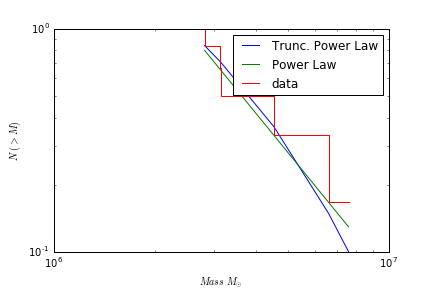
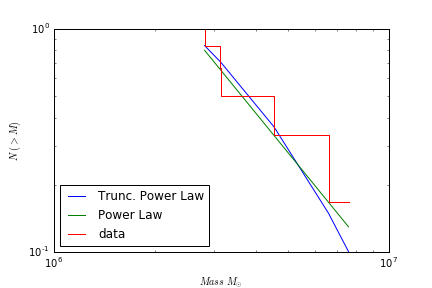
mass distributions all

diff --git a/powerlawbins.py b/powerlawbins.py
@@ -61,7 +61,7 @@ fit_1_subset.power_law.plot_ccdf(label='Power Law')
 fit_1_subset.plot_ccdf(drawstyle='steps', label='data')
 plt.xlabel(r'$Mass\ M_{\odot}$')
 plt.ylabel(r'$N\ (>M)$')
-plt.legend()
+plt.legend(loc=3)
 plt.savefig('powerlawbin1.png')
 
 #plot bin 2
@@ -141,7 +141,7 @@ fit_4_subset.power_law.plot_ccdf(label='Power Law')
 fit_4_subset.plot_ccdf(drawstyle='steps', label='data')
 plt.xlabel(r'$Mass\ M_{\odot}$')
 plt.ylabel(r'$N\ (>M)$')
-plt.legend()
+plt.legend(loc=3)
 plt.savefig('powerlawbin4.png')
 
 #plot bin 5
@@ -168,9 +168,8 @@ fit_5_subset.power_law.plot_ccdf(label='Power Law')
 fit_5_subset.plot_ccdf(drawstyle='steps', label='data')
 plt.xlabel(r'$Mass\ M_{\odot}$')
 plt.ylabel(r'$N\ (>M)$')
-plt.legend()
+plt.legend(loc=3)
 plt.savefig('powerlawbin5.png')
-
 
 t=PrettyTable(["Bins", "R", "p", "index", "Adamo's index"])
 t.add_row(["0<r<4.5", -0.680348, 0.243417, -2.425428, "N/A"])
